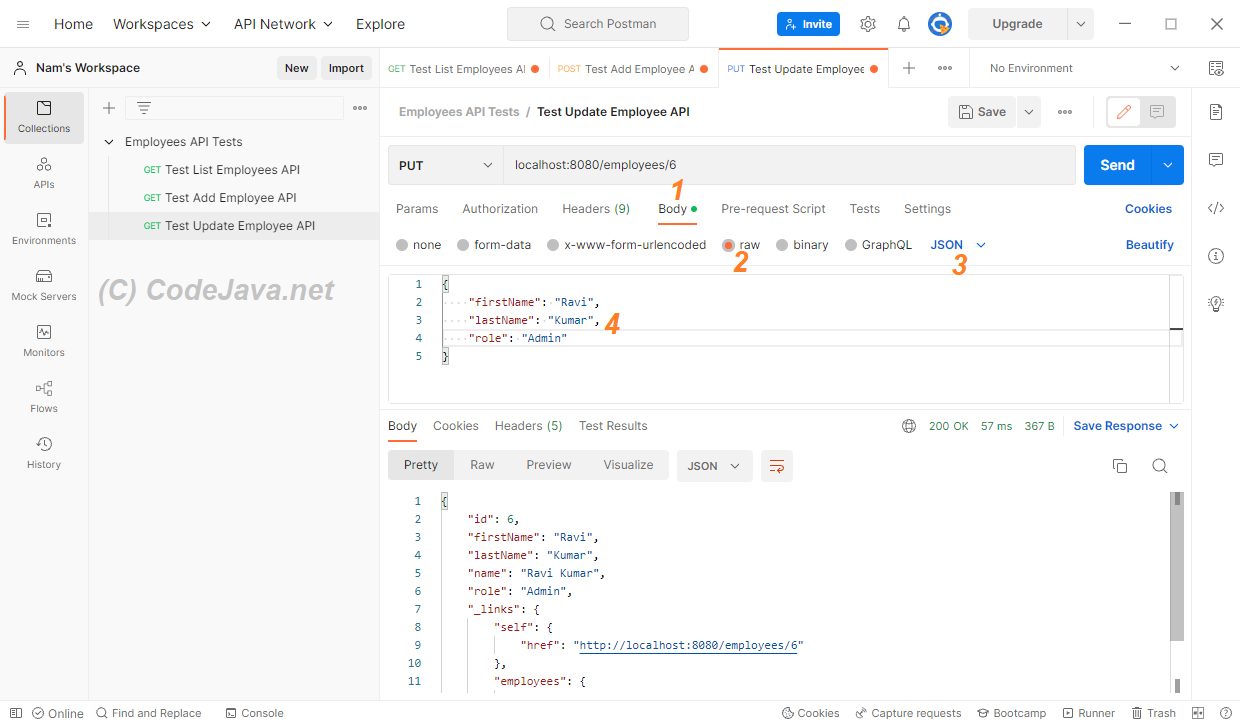
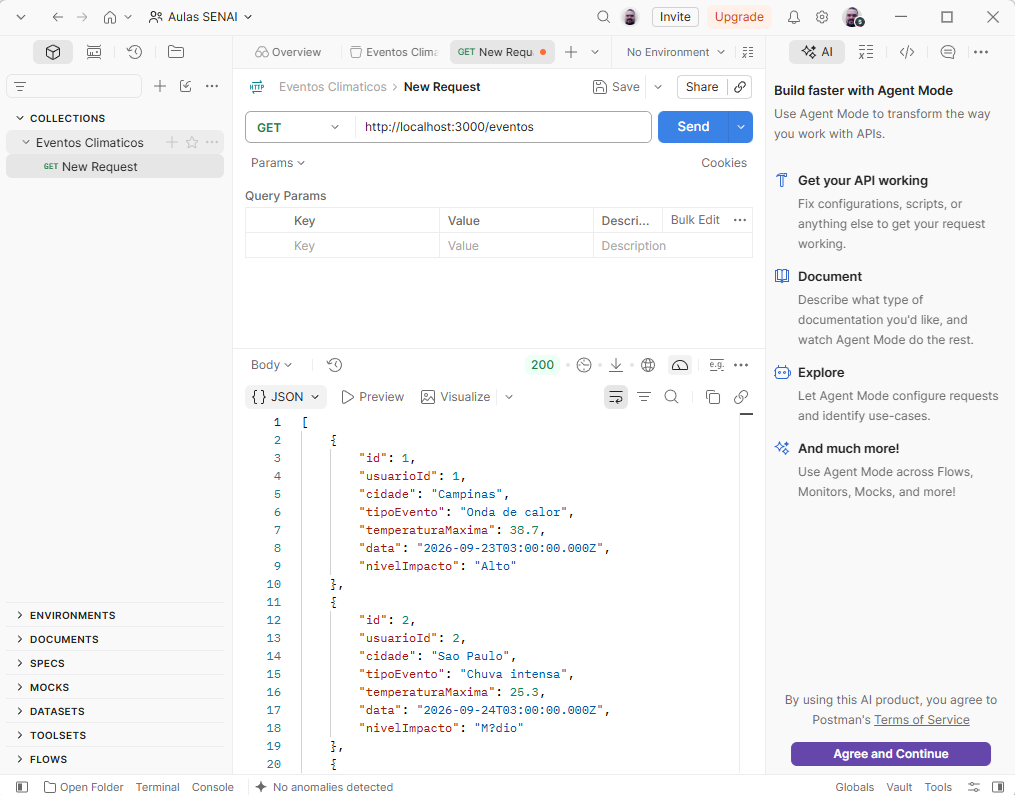
vistos

diff --git a/ds/planejamento/exemplos/eventos_climaticos/src/controllers/evento.js b/ds/planejamento/exemplos/eventos_climaticos/src/controllers/evento.js
@@ -93,9 +93,33 @@ const excluir = (req, res) => {
     })
 }
 
+const resumo = (req, res) => {
+    const sql1 = 'SELECT AVG(temperaturaMaxima) as "Temperaturas medias" FROM evento;'
+    const sql2 = 'SELECT * FROM evento;'
+    con.query(sql1, (err, results) => {
+        if (err) {
+            console.error(err)
+            res.status(500).json({ error: 'Erro ao buscar medias' })
+        } else {
+            const resposta = {}
+            resposta.media = results
+            con.query(sql2, (err, results) => {
+                if (err) {
+                    console.error(err)
+                    res.status(500).json({ error: 'Erro ao buscar eventos' })
+                }else{
+                    resposta.eventos = results
+                    res.json(resposta)
+                }
+            })
+        }
+    })
+}
+
 module.exports = {
     cadastrar,
     listar,
     alterar,
-    excluir
+    excluir,
+    resumo
 }

diff --git a/ds/planejamento/exemplos/eventos_climaticos/src/routes.js b/ds/planejamento/exemplos/eventos_climaticos/src/routes.js
@@ -22,5 +22,6 @@ router.post('/eventos', Evento.cadastrar)
 router.get('/eventos', Evento.listar)
 router.patch('/eventos/:id', Evento.alterar)
 router.delete('/eventos/:id', Evento.excluir)
+router.get('/eventos/resumo', Evento.resumo)
 
 module.exports = router
